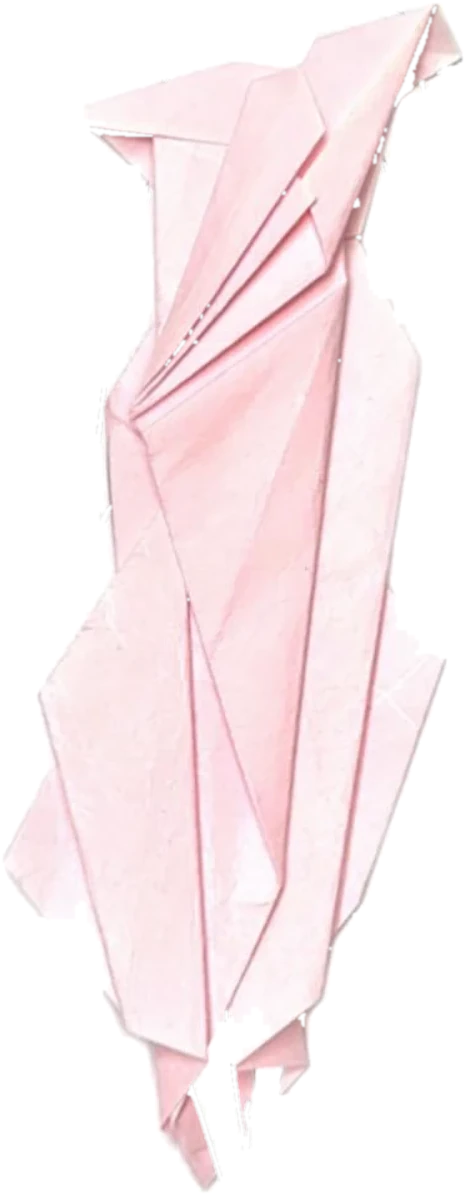
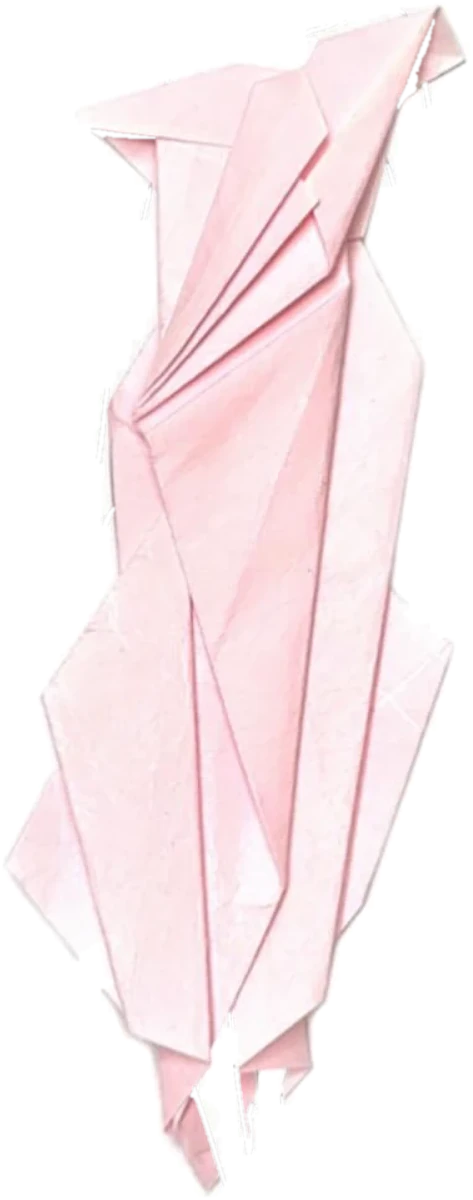
Stack pieces full-size in the inkstone; place fits exactly as in the fit drawings
- Pieces lie as a loose pile at full size in the well (top piece draggable),
  instead of shrinking into separate slots
- Fit layers are now positioned by registering each fit drawing's croquis onto the
  template the page figures are traced from (scale ~1.85–1.89), so the dress and
  accessories land exactly where they are in the drawing; no per-layer guesses
- Piece 03's dress re-cut with a tighter background threshold so its pale panels stay

Claude-Session: https://claude.ai/code/session_01KP2mAidLDQ2RQyfSicXDG6

diff --git a/js/pieces.js b/js/pieces.js
@@ -4,35 +4,37 @@
    then its accessories appear. Drag the look off the figure to take the piece back.
 
    To add a piece: put its images in assets/pieces/<id>/ and add an entry below. Layer boxes
-   are in figure units: the figure is 100 wide × 334 tall (head top 0, soles 334). */
+   are in figure units: the figure is 100 wide × 334 tall (head top 0, soles 334). They come
+   from registering the fit drawing's croquis onto the template the page figures are traced
+   from, so each layer sits exactly where it is in the drawing. */
 const PIECES = [
   {
     id: '01',
     piece: 'assets/pieces/01/piece.webp',          // the origami piece as folded
-    // the fitted look: the dress first, then the accessories that appear after it
+    // the fitted look, exactly as in the fit drawing: the garment first, then the accessories
     fit: [
-      { src: 'assets/pieces/01/dress.webp',    x: 12.5,  y: 28.44,  w: 69.05, h: 183.28, rot: 0 },
-      { src: 'assets/pieces/01/hair.webp',     x: 35.43, y: -1.26,  w: 28.37, h: 22.26,  rot: 0 },
-      { src: 'assets/pieces/01/bracelet.webp', x: 87.05, y: 123.03, w: 6.29,  h: 16.55,  rot: 10.55 },
-      { src: 'assets/pieces/01/shoes.webp',    x: 44.88, y: 242.96, w: 21.73, h: 92.66,  rot: 11.52 },
+      { src: 'assets/pieces/01/dress.webp',    x: 6.49, y: 19.84, w: 71.68, h: 190.26 },
+      { src: 'assets/pieces/01/hair.webp',     x: 32.72, y: -3.71, w: 29.75, h: 23.34 },
+      { src: 'assets/pieces/01/bracelet.webp', x: 85.82, y: 112.39, w: 7.85, h: 20.66 },
+      { src: 'assets/pieces/01/shoes.webp',    x: 40.16, y: 256.79, w: 19.63, h: 83.67 },
     ],
   },
   {
     id: '02',
     piece: 'assets/pieces/02/piece.webp',
     fit: [
-      { src: 'assets/pieces/02/dress.webp',    x: -50.52, y: 48.48, w: 136.56, h: 240.56, rot: 0.0 },
-      { src: 'assets/pieces/02/hair.webp',     x: 36.6, y: -3.84, w: 26.03, h: 34.38, rot: 0.0 },
-      { src: 'assets/pieces/02/shoes.webp',    x: 44.18, y: 265.14, w: 15.79, h: 64.74, rot: 11.52 },
+      { src: 'assets/pieces/02/dress.webp',    x: -56.76, y: 43.97, w: 141.49, h: 249.23 },
+      { src: 'assets/pieces/02/hair.webp',     x: 35.94, y: -2.99, w: 27.24, h: 35.98 },
+      { src: 'assets/pieces/02/shoes.webp',    x: 43.06, y: 280.19, w: 14.23, h: 58.34 },
     ],
   },
   {
     id: '03',
     piece: 'assets/pieces/03/piece.webp',
     fit: [
-      { src: 'assets/pieces/03/dress.webp',    x: -1.75, y: 52.35, w: 91.25, h: 234.0, rot: 0.0 },
-      { src: 'assets/pieces/03/hair.webp',     x: 36.24, y: -1.08, w: 27.91, h: 31.79, rot: 0.0 },
-      { src: 'assets/pieces/03/shoes.webp',    x: 37.04, y: 274.99, w: 27.01, h: 60.11, rot: 11.52 },
+      { src: 'assets/pieces/03/dress.webp',    x: -6.77, y: 46.86, w: 95.75, h: 242.91 },
+      { src: 'assets/pieces/03/hair.webp',     x: 35.54, y: -0.71, w: 29.15, h: 33.2 },
+      { src: 'assets/pieces/03/shoes.webp',    x: 37.97, y: 287.96, w: 24.29, h: 54.05 },
     ],
   },
 ];
@@ -54,11 +56,17 @@ const PIECES = [
 
   // ---- layout ----
   const S = () => window.PaperScene;
-  function stoneSlot(i, n) {                         // pieces share the well, top to bottom
-    const w = S().well, slotH = w.h / n, ar = items[i].el.naturalWidth / items[i].el.naturalHeight || .38;
-    let h = slotH * .9, wd = h * ar;
-    if (wd > w.w * .88) { wd = w.w * .88; h = wd / ar; }
-    return { x: w.x + (w.w - wd) / 2, y: w.y + slotH * i + (slotH - h) / 2, w: wd, h };
+  // pieces lie stacked in the well, each at full size, a little askew like a loose pile
+  const PILE = [[0, 0, 0], [-7, 9, -4], [8, -6, 3.5], [-4, -10, -2], [6, 12, 2.5]];
+  function pieceSize(it) {
+    const w = S().well, ar = it.el.naturalWidth / it.el.naturalHeight || .38;
+    let h = w.h * .9, wd = h * ar;
+    if (wd > w.w * .9) { wd = w.w * .9; h = wd / ar; }
+    return { w: wd, h };
+  }
+  function stoneSlot(it, i) {
+    const w = S().well, { w: wd, h } = pieceSize(it), [dx, dy, rot] = PILE[i % PILE.length];
+    return { x: w.x + (w.w - wd) / 2 + dx, y: w.y + (w.h - h) / 2 + dy, w: wd, h, rot };
   }
   const setBox = (el, r) => Object.assign(el.style, { left: r.x + 'px', top: r.y + 'px', width: r.w + 'px', height: r.h + 'px' });
   function figureFrame(f) {                          // the figure's 100 × 334 unit box, in .paper px
@@ -71,10 +79,14 @@ const PIECES = [
     const inStone = items.filter(it => it.where === 'stone');
     items.forEach(it => {
       if (it.where === 'stone') {
-        S().stone.appendChild(it.el); setBox(it.el, stoneSlot(inStone.indexOf(it), inStone.length));
+        const i = inStone.indexOf(it), r = stoneSlot(it, i);
+        S().stone.appendChild(it.el); setBox(it.el, r);
+        it.el.style.transform = `rotate(${r.rot}deg)`;
+        it.el.style.zIndex = inStone.length - i;               // the first piece lies on top
       } else if (it.where === 'paper') {
-        const pr = S().paper.getBoundingClientRect(), r = stoneSlot(0, 1);
+        const pr = S().paper.getBoundingClientRect(), r = pieceSize(it);
         S().paper.appendChild(it.el);
+        it.el.style.transform = it.el.style.zIndex = '';
         setBox(it.el, { x: it.u * pr.width - r.w / 2, y: it.v * pr.height - r.h / 2, w: r.w, h: r.h });
       } else if (it.look) {
         setBox(it.look, figureFrame(S().figures[it.fig]));
@@ -91,7 +103,6 @@ const PIECES = [
       const e = img(L.src, k === 0 ? 'layer garment' : 'layer accessory');
       Object.assign(e.style, {
         left: L.x + '%', top: (L.y / 334 * 100) + '%', width: L.w + '%', height: (L.h / 334 * 100) + '%',
-        transform: `rotate(${L.rot}deg)`,
       });
       look.appendChild(e);
     });
@@ -144,18 +155,21 @@ const PIECES = [
   function startDrag(it, e, rect) {
     e.preventDefault();
     dragLayer.appendChild(it.el);
+    it.el.style.transform = it.el.style.zIndex = '';
     setBox(it.el, { x: rect.left, y: rect.top, w: rect.width, h: rect.height });
     it.el.classList.add('lifted');
     drag = { it, dx: e.clientX - rect.left, dy: e.clientY - rect.top, w: rect.width, h: rect.height, id: e.pointerId };
   }
   items.forEach(it => it.el.addEventListener('pointerdown', e => {
     if (e.button && e.button !== 0) return;
-    startDrag(it, e, it.el.getBoundingClientRect());
+    // lift it at its own (unrotated) size, centred where it lies
+    const b = it.el.getBoundingClientRect(), w = it.el.offsetWidth, h = it.el.offsetHeight;
+    startDrag(it, e, { left: b.left + (b.width - w) / 2, top: b.top + (b.height - h) / 2, width: w, height: h });
   }));
 
   function takeOff(it, e) {                          // pick the look back up as the folded piece
     if (e.button && e.button !== 0) return;
-    const r = stoneSlot(0, 1);
+    const r = pieceSize(it);
     removeLook(it);
     it.where = 'paper';
     startDrag(it, e, { left: e.clientX - r.w / 2, top: e.clientY - r.h * .35, width: r.w, height: r.h });
